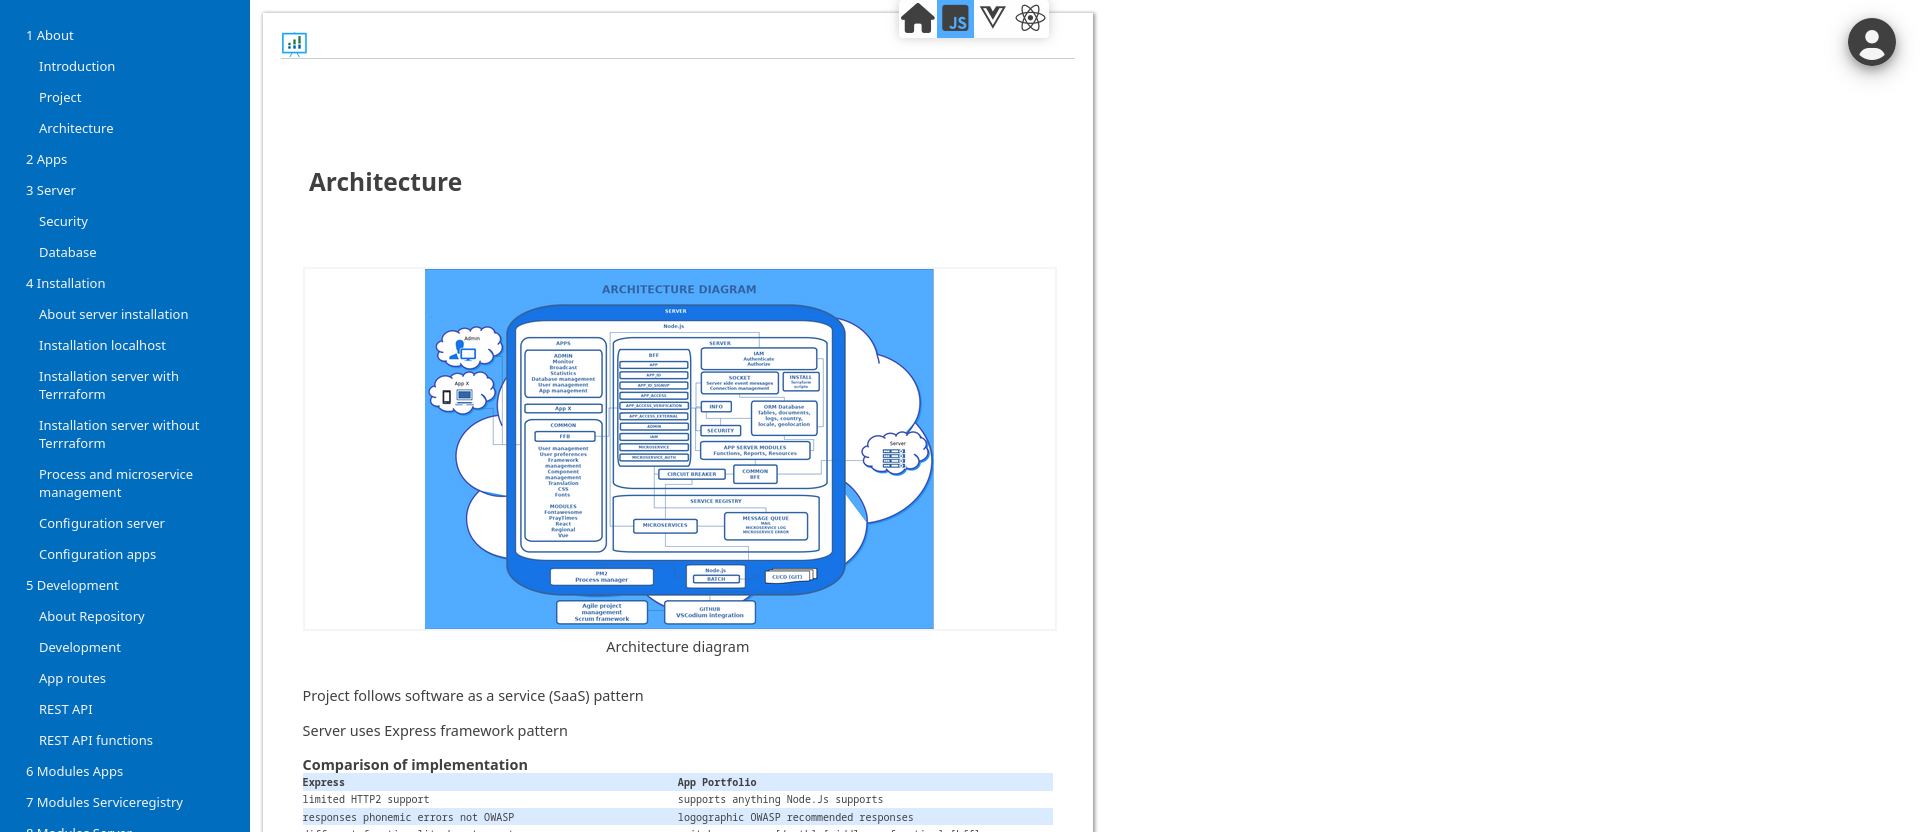
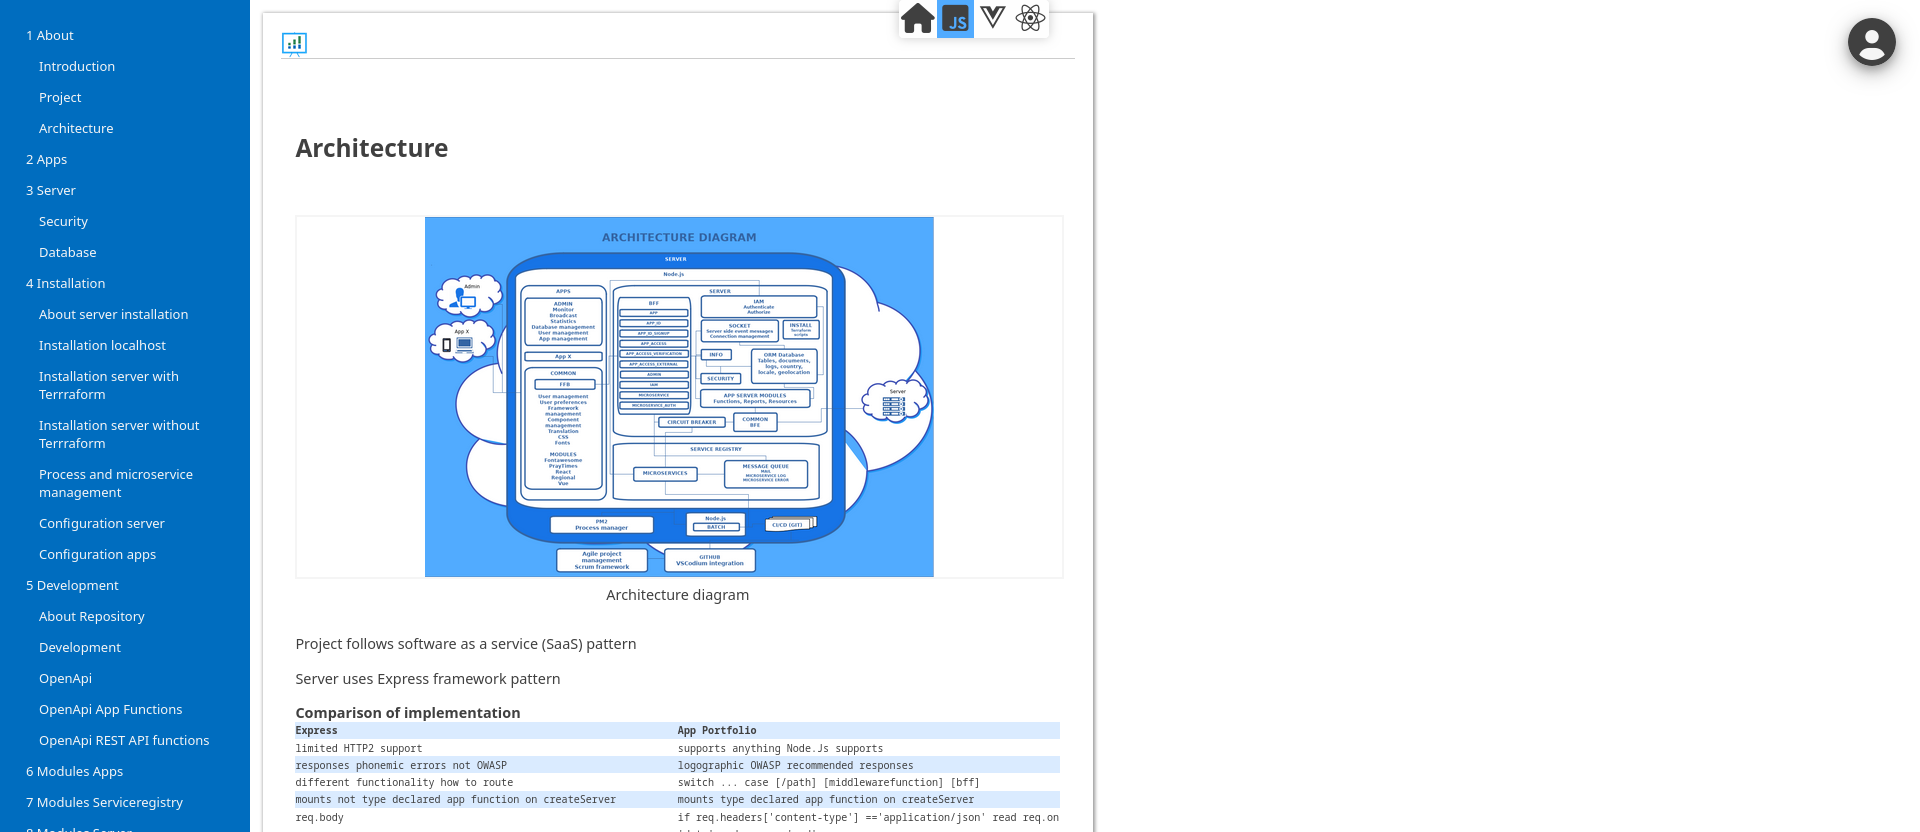
AP-62 renames templateRestApi.md to templateOpenApi.md, templateAppRoutes.md to templateOpenApiAppFunctions.md and templateRouteFunctions.md to templateOpenApiRestApiFunctions.md, renames variables in common_doc.js, renames document titles in templateAppRoutes.md, templateOpenApi.md and templateRout

Changed region(s): [[0.1562, 0.1562, 0.5, 0.7812], [0.1562, 0.8125, 0.5625, 1.0], [0.0312, 0.8125, 0.0938, 0.9062]]

diff --git a/apps/common/src/functions/common_doc.js b/apps/common/src/functions/common_doc.js
@@ -7,13 +7,13 @@
 const {server} = await import('../../../../server/server.js');
 const fs = await import('node:fs');
 
-const MD_PATH =                         '/apps/common/src/functions/documentation/';
-const MD_SUFFIX =                        '.md';
-const MD_TEMPLATE_APPS =                'templateApps';
-const MD_TEMPLATE_RESTAPI =             'templateRestApi';
-const MD_TEMPLATE_RESTAPI_FUNCTIONS =   'templateRouteFunctions';
-const MD_TEMPLATE_APPROUTES =           'templateAppRoutes';
-const MD_TEMPLATE_MODULE =              'templateModule';
+const MD_PATH =                                 '/apps/common/src/functions/documentation/';
+const MD_SUFFIX =                               '.md';
+const MD_TEMPLATE_APPS =                        'templateApps';
+const MD_TEMPLATE_OPENAPI =                     'templateOpenApi';
+const MD_TEMPLATE_OPENAPI_RESTAPI_FUNCTIONS =   'templateOpenApiRestApiFunctions';
+const MD_TEMPLATE_OPENAPI_APP_FUNCTIONS =       'templateOpenApiAppFunctions';
+const MD_TEMPLATE_MODULE =                      'templateModule';
 
 
 /**
@@ -276,7 +276,7 @@ const markdownRender = async parameters =>{
                                                             comment_with_filter:null
                                                         }));
         }
-        case parameters.doc==MD_TEMPLATE_RESTAPI:{
+        case parameters.doc==MD_TEMPLATE_OPENAPI:{
             const roleOrder = ['app_id', 'app', 'app_access', 'app_access_verification', 'admin', 'app_external', 'app_access_external', 'iam', 'iam_signup', 'microservice', 'microservice_auth'];
             /**
              * Sort paths by defined role order
@@ -396,8 +396,8 @@ const markdownRender = async parameters =>{
                 
                         
                 /**@type{server['ORM']['Object']['OpenApi']} */
-                const CONFIG_REST_API = server.ORM.db.OpenApi.getViewWithoutConfig({app_id:parameters.app_id}).result;
-                for (const path of Object.entries(CONFIG_REST_API.paths))
+                const openApi = server.ORM.db.OpenApi.getViewWithoutConfig({app_id:parameters.app_id}).result;
+                for (const path of Object.entries(openApi.paths))
                     for (const method of Object.entries(path[1])){
                         const JSDocResult = await getJsDocMetadata(method[1].operationId);
                         //Update summary with @description tag
@@ -438,22 +438,22 @@ const markdownRender = async parameters =>{
                             }    
                     }
                     try {
-                        return openApiMarkdown({openApi:CONFIG_REST_API});        
+                        return openApiMarkdown({openApi:openApi});        
                     } catch (error) {
                         return '';
                     }
             };
             const openApi = await renderOpenApi();
-            return await getFile(`${server.ORM.serverProcess.cwd()}${MD_PATH + MD_TEMPLATE_RESTAPI + MD_SUFFIX}`)
+            return await getFile(`${server.ORM.serverProcess.cwd()}${MD_PATH + MD_TEMPLATE_OPENAPI + MD_SUFFIX}`)
                             .then(markdown=>
                                     //remove all '\r' in '\r\n'
                                     markdown
                                     .replaceAll('\r\n','\n')
-                                    .replace('@{CONFIG_REST_API}',openApi)
+                                    .replace('@{OPENAPI}',openApi)
                                 );
         }
-        case parameters.doc==MD_TEMPLATE_APPROUTES:
-        case parameters.doc==MD_TEMPLATE_RESTAPI_FUNCTIONS:{
+        case parameters.doc==MD_TEMPLATE_OPENAPI_APP_FUNCTIONS:
+        case parameters.doc==MD_TEMPLATE_OPENAPI_RESTAPI_FUNCTIONS:{
             /**
              * @param {string} tag
              * @param {string} routePath
@@ -486,10 +486,10 @@ const markdownRender = async parameters =>{
                             //remove all '\r' in '\r\n'
                             markdown
                             .replaceAll('\r\n','\n')
-                            .replace('@{ROUTE_FUNCTIONS}',membersof.join('\n\n'))
+                            .replace('@{OPENAPI_FUNCTIONS}',membersof.join('\n\n'))
                         );
             };
-            if (parameters.doc==MD_TEMPLATE_APPROUTES)
+            if (parameters.doc==MD_TEMPLATE_OPENAPI_APP_FUNCTIONS)
                 return await renderRouteFuntions('ROUTE_APP', '/server/bff', ['apps'], parameters.doc);
             else
                 return await renderRouteFuntions('ROUTE_REST_API', '/server/server', ['apps', 'serviceregistry','server'], parameters.doc);

diff --git a/apps/common/src/functions/documentation/templateOpenApi.md b/apps/common/src/functions/documentation/templateOpenApi.md
@@ -1,11 +1,25 @@
-# REST API
+# OpenApi
 
-- ISO20022
-- OWASP guidelines for security 
-- IAM pattern to authenticate resources
-- OpenAPI pattern using JSON syntax
+OpenApi is used as both documentation and for management of configuration of App Portfolio and uses JSON syntax.
+The documentation follows single source of truth pattern and is integrated with JSDoc where all comments are saved using @description tag for summary and @returns tag for responses in the rows and properties keys and these JSDoc tags are displayed with green text. 
 
-## REST API URI implementation
+## Security
+
+OpenApi follows OWASP guidelines for security and uses IAM pattern that includes 
+
+- encrypting transport for all requests
+- role based REST API
+- IAM pattern to authenticate REST API resources
+
+## ISO20022
+
+ISO2022 REST API pattern is implemented. See ISO20022 specification how pagination, list response, error response, field limits, single or multi resource work.
+Objects in ORM use PascalCase naming standard. In REST API they use lowercase naming standard to follow ISO20022.
+Record limit is controlled by server using document ConfigServer, SERVICE_APP and APP_LIMIT_RECORD parameter.
+Pagination can be used in any path that can return one or many records. Records are returned in rows key.
+
+
+## OpenApi REST API URI implementation
 
 [protocol]://[domain]/[Backend For Frontend (BFF)]/[role authorization]/version/[resource collection/service]/[resource]/[optional resource id]?[URI query]
 
@@ -33,16 +47,5 @@ All REST API send data in body with route info including query, method and heade
 |microservice               |Authorized when microservice is in use using encrypted messages to get access to service registry, IAM and message queue |
 |microservice_auth          |Authenticates microservices using encrypted messages         |
 
-## REST API uses ISO20022 pattern
 
-See ISO20022 specification how pagination, list response, error response, field limits, single or multi resource work.
-Objects in ORM use PascalCase naming standard. In REST API they use lowercase naming standard to follow ISO20022.
-Record limit is controlled by server using document ConfigServer, SERVICE_APP and APP_LIMIT_RECORD parameter.
-Pagination can be used in any path that can return one or many records. Records are returned in rows key.
-
-## REST API uses openAPI pattern
-
-OpenAPI pattern is implemented for REST API documentation and uses JSON format. This source is used as both documentation and for management of REST API in Javascript.
-The documentation follows single source of truth pattern and is integrated with JSDoc where all comments are saved using @description tag for summary and @returns tag for responses in the rows and properties keys and these JSDoc tags are displayed with green text. 
-
-@{CONFIG_REST_API}
+@{OPENAPI}

diff --git a/apps/common/src/functions/documentation/templateOpenApiRestApiFunctions.md b/apps/common/src/functions/documentation/templateOpenApiRestApiFunctions.md
@@ -1,6 +1,6 @@
-# REST API functions
+# OpenApi REST API functions
 
-The REST API function uses tag `@namespace ROUTE_REST_API`
+The OpenApi REST API function uses tag `@namespace ROUTE_REST_API`
 All functions used by REST API paths are specified in the openAPI key `operationId` and these functions use tag `@memberof ROUTE_REST_API`.
 
 Project implements non unique operationId so many paths can refer to same operationId.
@@ -9,4 +9,4 @@ Paths and method are unique.
 
 List of functions used by REST API
 
-@{ROUTE_FUNCTIONS}
+@{OPENAPI_FUNCTIONS}

diff --git a/apps/common/src/functions/documentation/templateOpenApiAppFunctions.md b/apps/common/src/functions/documentation/templateOpenApiAppFunctions.md
@@ -1,8 +1,8 @@
-# App routes
+# OpenApi App Functions
 
 The function used by app routes use tag `@namespace ROUTE_APP`
 All functions used by the app route function use tag `@memberof ROUTE_APP`.
 
 List of functions used by app routes
 
-@{ROUTE_FUNCTIONS}
+@{OPENAPI_FUNCTIONS}
